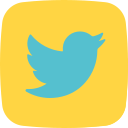
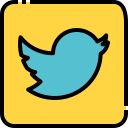
amelioration menu + css boutique

Changed region(s): [[0.125, 0.2188, 0.875, 0.7812], [0.0, 0.0, 1.0, 1.0]]

diff --git a/src/Css/Menu.css b/src/Css/Menu.css
@@ -1,7 +1,6 @@
 .header {
   background-color: #ffd543;
   border: solid 3px #2c1e1e;
-  border-bottom: none;
 }
 .menu {
   padding: 0 !important;
@@ -33,6 +32,7 @@ a {
   margin-bottom: 10px;
   color: black;
   text-decoration: underline;
+  padding-left: 5px;
 }
 .offcanvas-custom-width {
   width: 100% !important;
@@ -74,6 +74,10 @@ a {
   .visible {
     display: none;
   }
+  #basic-navbar-nav {
+    border: none;
+    background-color: rgb(255, 213, 67);
+  }
 }
 @media screen and (min-width: 576px) {
   .menuNav {
@@ -85,10 +89,24 @@ a {
     width: 50% !important;
   }
 }
+@media screen and (min-width: 1600px) {
+  .container {
+    max-width: 90% !important;
+  }
+}
 .navBarOpen {
-  padding-top: 10px;
-  border: solid 3px red;
-  width: 100%;
-  background-color: red;
-  margin: 0 -15px;
+  border: solid 3px #2c1e1e;
+  border-left: none;
+  border-right: none;
+  background-color: #55c0cf;
+  margin: 10px -21px;
+}
+#basic-navbar-nav {
+  margin-bottom: -20px;
+}
+.navbar-toggler {
+  border: none !important;
+}
+.custom-toggler:focus {
+  box-shadow: none !important;
 }

diff --git a/src/Css/Boutique.css b/src/Css/Boutique.css
@@ -19,14 +19,44 @@
   text-decoration: underline;
   padding: 10px 0;
 }
-.shadow {
-  border: 3px solid black;
-  box-shadow: 3px 3px 3px rgb(0, 0, 0);
-  background-color: white;
-}
 .siOuvert :last-child {
   padding-bottom: 20px;
 }
 input[type="checkbox"] {
   accent-color: #ffd543;
+}
+label {
+  font-weight: 600;
+}
+.prixMin {
+  max-width: 55px;
+  margin: 0 0 10px 15px;
+  height: 25px;
+  border: 2px solid #2c1e1e;
+  border-radius: 3px;
+}
+.prixMax:focus,
+.prixMin:focus {
+  outline: solid 2px #55c0cf;
+}
+.prixMax {
+  max-width: 55px;
+  margin-left: 13px;
+  height: 25px;
+  border: 2px solid #2c1e1e;
+  border-radius: 3px;
+}
+#noteMin {
+  max-width: 45px;
+  margin: 0 0 10px 10px;
+  border: 2px solid #2c1e1e;
+  border-radius: 3px;
+  background-color: white;
+}
+#noteMax {
+  max-width: 45px;
+  border: 2px solid #2c1e1e;
+  border-radius: 3px;
+  margin: 0 0 0 8px;
+  background-color: white;
 }

diff --git a/src/Pages/Boutique.js b/src/Pages/Boutique.js
@@ -166,8 +166,9 @@ export default function Boutique() {
                 id="prixMin"
                 name="prixMin"
                 min="1"
-                max="100"
+                max="99"
                 placeholder="1€"
+                className="prixMin"
               />
               <br />
               <label htmlFor="prixMax">Prix max</label>
@@ -177,8 +178,9 @@ export default function Boutique() {
                 id="prixMax"
                 name="prixMax"
                 min="1"
-                max="100"
-                placeholder="100€"
+                max="99"
+                placeholder="99€"
+                className="prixMax"
               />
               <br />
             </form>

diff --git a/src/Composants/Menu.js b/src/Composants/Menu.js
@@ -42,9 +42,12 @@ export default function Menu() {
             </Navbar.Brand>
           </div>
 
-          <Navbar.Toggle aria-controls="basic-navbar-nav" />
+          <Navbar.Toggle
+            aria-controls="basic-navbar-nav"
+            className="custom-toggler"
+          />
           <Navbar.Collapse className="navBarOpen" id="basic-navbar-nav">
-            <Nav className="me-auto poups">
+            <Nav className="me-auto">
               <NavLink to="" className="menuNav">
                 Accueil
               </NavLink>

diff --git a/src/Composants/Footer.js b/src/Composants/Footer.js
@@ -16,7 +16,7 @@ export default function Footer() {
       </div>
       <div className="logoReseaux">
         <img src="/images/facebook.png" alt="Logo Facebook" />
-        <img src="/images/instagram.png" alt="Logo Instagram" />
+        <img src="/images/aze.png" alt="Logo Instagram" />
         <img src="/images/twitter.png" alt="Logo Twitter" />
       </div>
     </div>

diff --git a/src/Composants/Produit.js b/src/Composants/Produit.js
@@ -36,7 +36,7 @@ export default function Produit(props) {
         <h4>{produitNom}</h4>
         <p>{prix} €</p>
         <p>Note: {rating}</p>
-        <button className="shadow" onClick={handleAdd}>
+        <button className="boutonAjouter" onClick={handleAdd}>
           Ajouter au panier
         </button>
       </div>

diff --git a/src/Css/Produit.css b/src/Css/Produit.css
@@ -9,8 +9,14 @@
   margin: 0;
 }
 .descProduit h4,
-.descProduit p,
-.descProduit button {
+.descProduit p {
   margin: 0;
   font-weight: 600;
+}
+.boutonAjouter {
+  background-color: rgb(255, 213, 67);
+  box-shadow: 3px 3px 3px #2c1e1e;
+  border: #2c1e1e solid 3px;
+  font-weight: 600;
+  margin-top: 5px;
 }

diff --git a/src/Css/Footer.css b/src/Css/Footer.css
@@ -25,7 +25,7 @@
 .logoReseaux img {
   padding: 20px;
   transform: translateY(-20px);
-  width: 100px;
+  width: 90px;
   height: auto;
 }
 @media screen and (max-width: 700px) {

diff --git a/src/Css/Accueil.css b/src/Css/Accueil.css
@@ -13,6 +13,7 @@ h4 {
   /* width: 80%; */
   margin: 0px auto;
   border: solid 3px #2c1e1e;
+  border-top: none;
 }
 .accueil {
   width: 100%;
